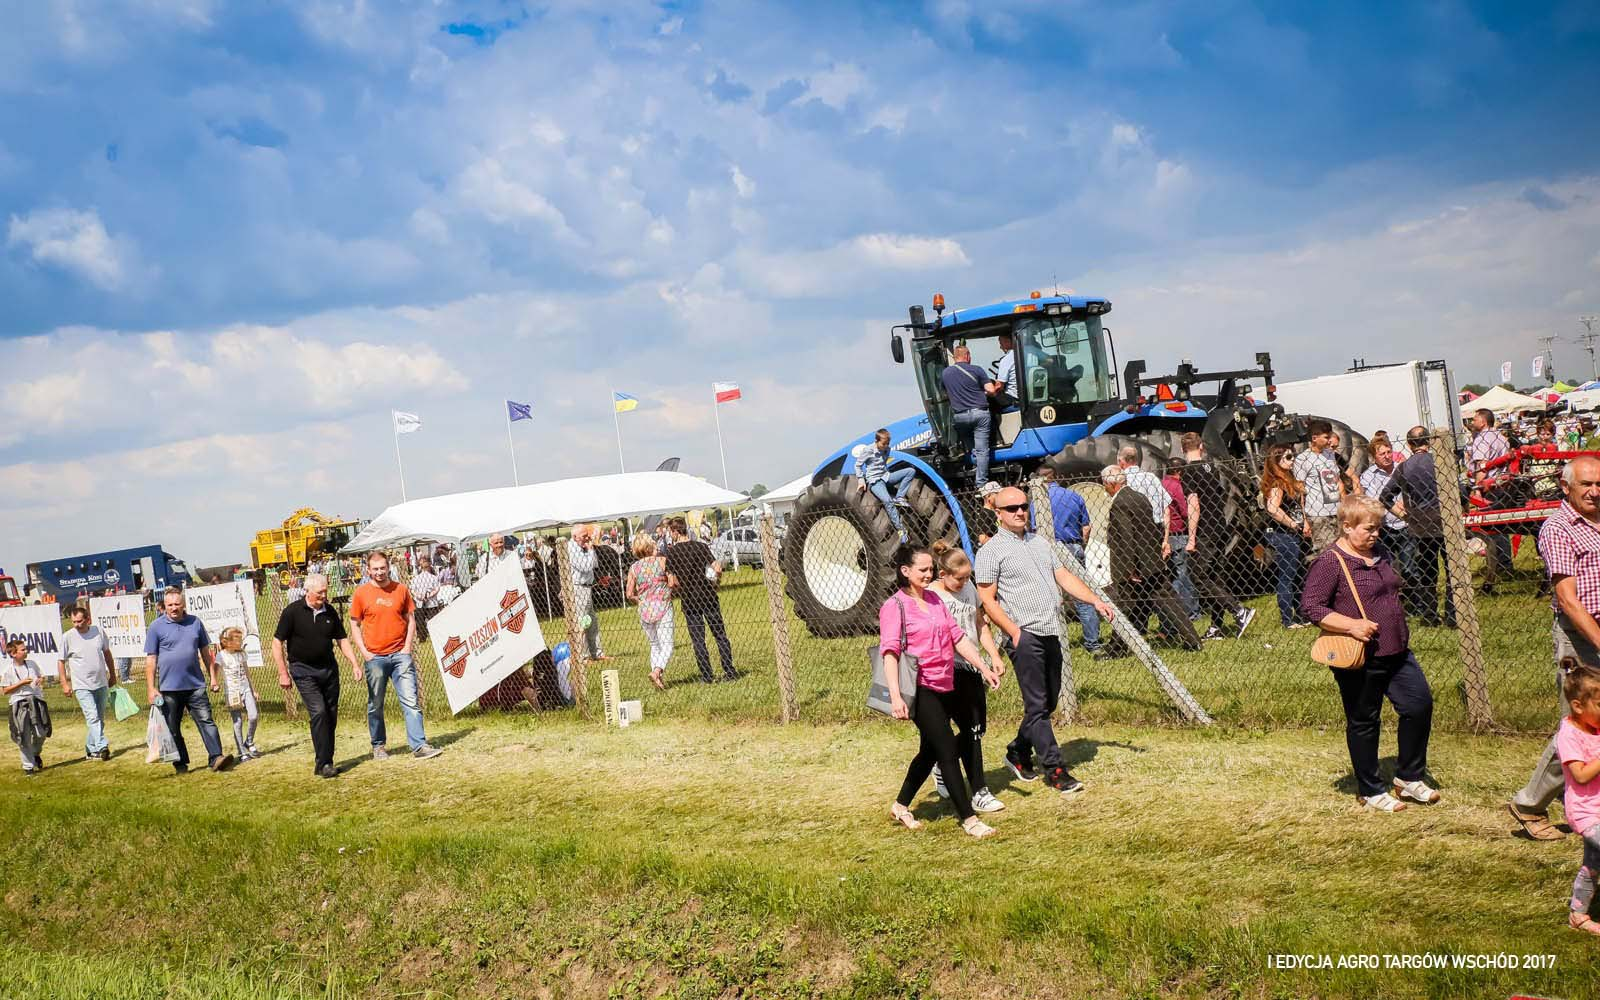
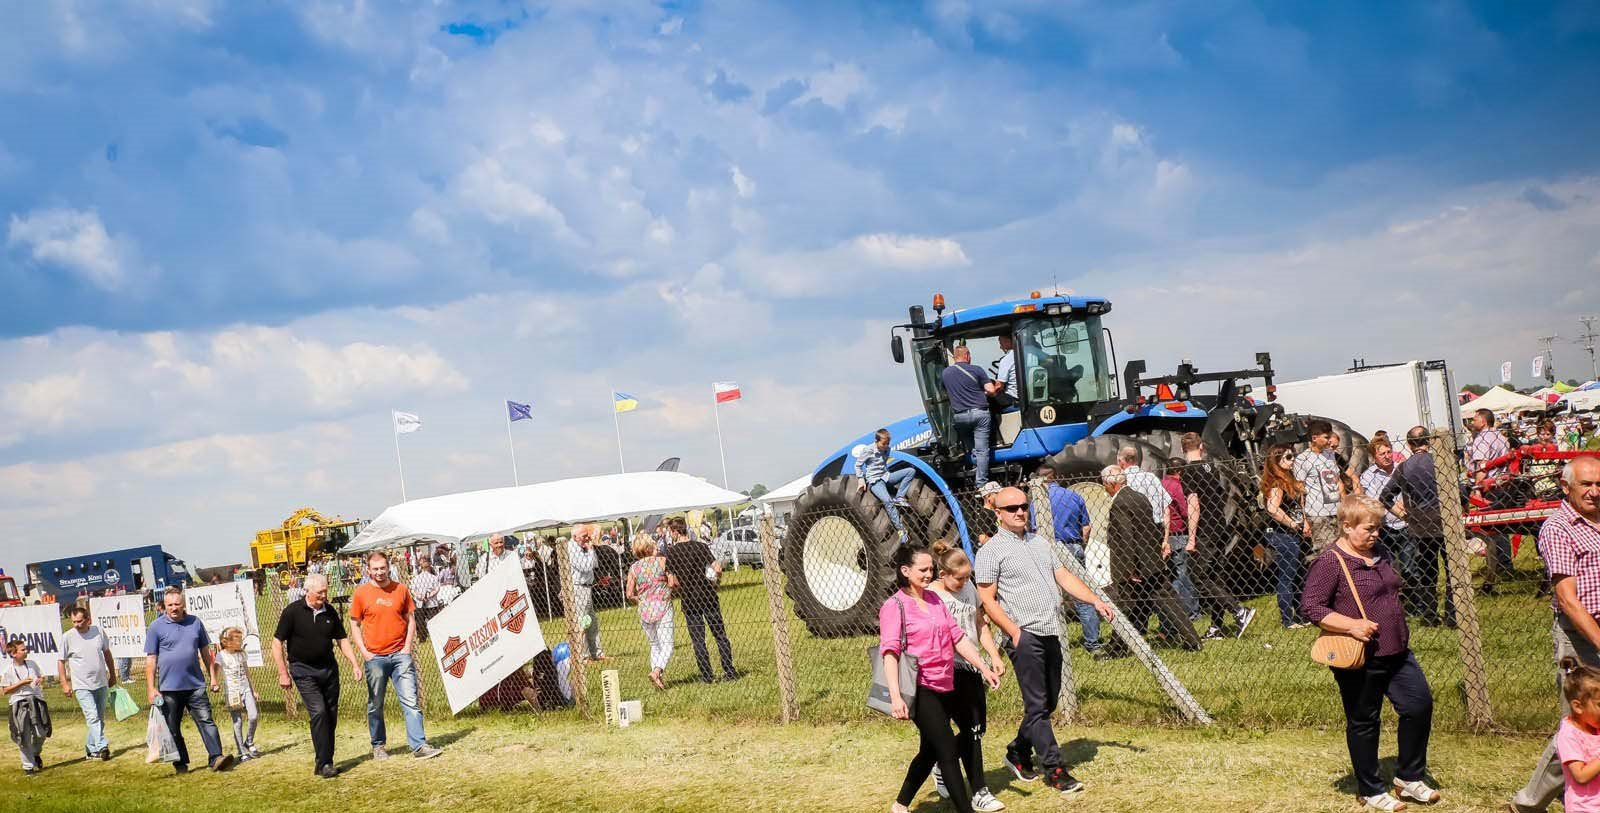
mniejszenie obrazu tła na głównej

diff --git a/dist/css/main.min.css b/dist/css/main.min.css
@@ -492,7 +492,7 @@ header.header nav ul li a:hover {
 }
 
 .main-jumbotron {
-  height: 68vh;
+  height: 48vh;
   background: transparent url("../../src/assets/img/gal1/z11.jpg") 50% 50% no-repeat;
   overflow: hidden;
   padding-top: 0;
